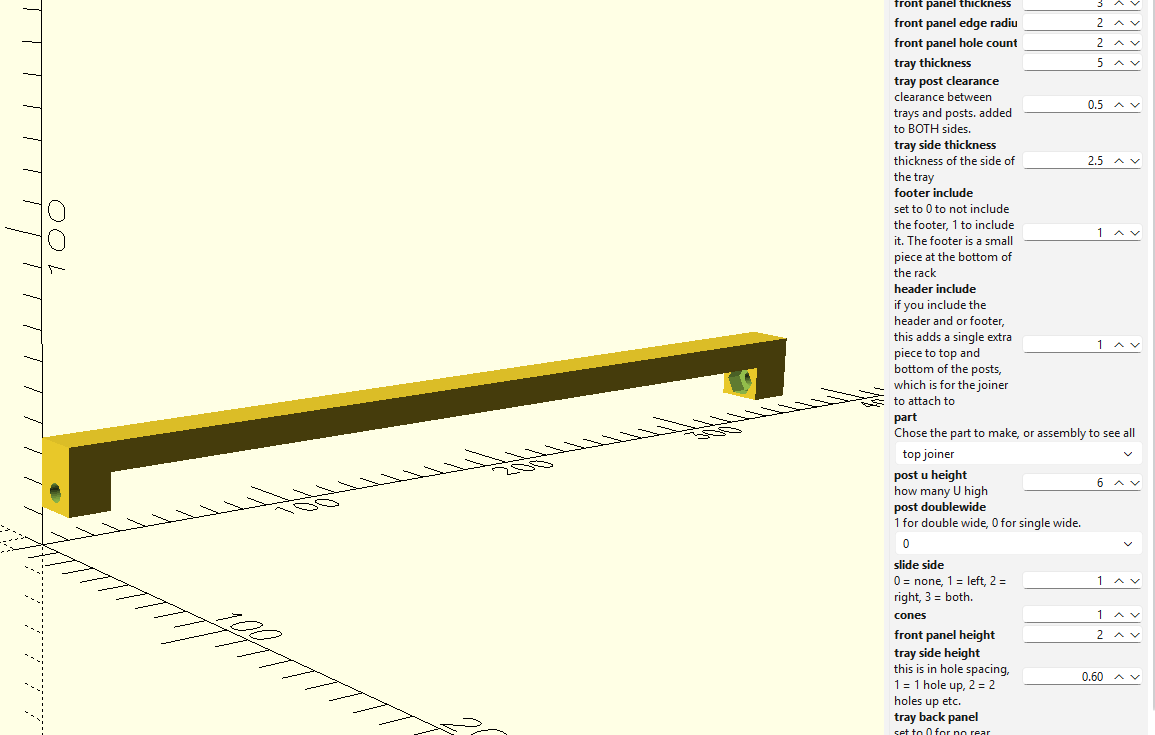
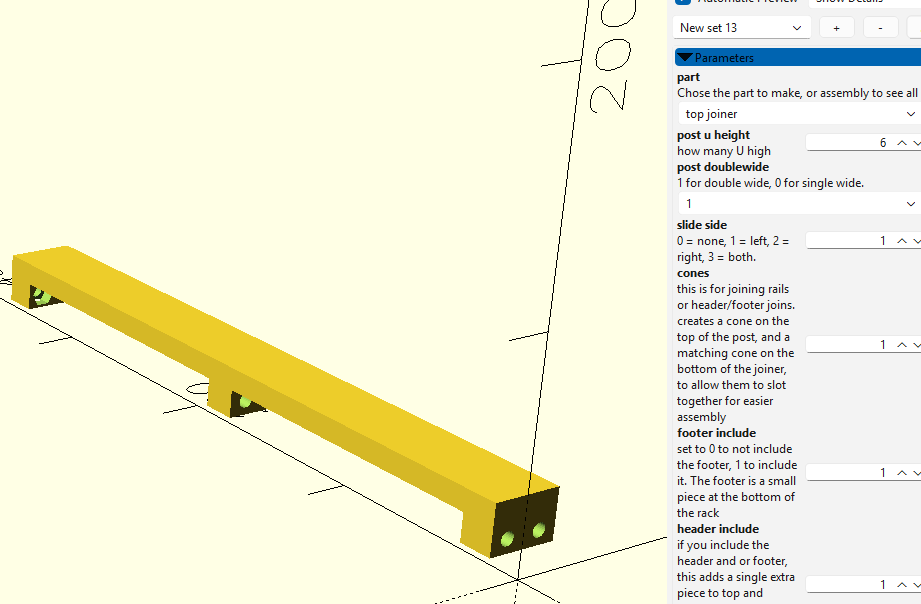
readme, refactors, renames, photoes, mini-itx board

diff --git a/readme.md b/readme.md
@@ -1,18 +1,50 @@
-Most of this readme was wrote by copilot, because I am a forklift operator, not a novelist. But I did write most of the code (except variable tray, which copilot fixed for me then refactored) and the spec.
+# Variable width Rack design.
 
-If you like the design, you're welcome to buy me a coffee:
+No longer are you stuck with 10" rack or a 19" rack you can't print parts for! What's more, you can actually have supported trays :)
+
+
+So, what is this actually?
+Simply put, I wanted a bigger rack that I could print on my Creality K2plus (350x350x350 build volume) and I wanted it to be 100% in OpenSCAD. Because that's the only software I can use. Fusion 360 is good, but eats cpu, doesn't work on Linux, and worst of all, they changed the licence and features available for hobbyists.
+What about FreeCAD? Yeah, FreeCAD is getting good now, but I just didn't want to learn it, because that would require starting out with the spec nailed down before even creating a design. It wasn't.
+
+Anyway, if you like the design, you're welcome to buy me a coffee:
 
 <a href="https://buymeacoffee.com/amead77"><img src="bmc-button.png" alt="Buy Me a Coffee" width="50%" /></a>
 
-# 330mm / 13-Inch Rack System (OpenSCAD)
 
-A parametric, 3D-printable rack system designed for larger-format printers such as the Creality K2 Plus, Prusa XL, etc. The rack is 330mm wide — measured from the left edge of the left post to the right edge of the right post (single-post configuration).
+A quick overview
+
+Below is a screenshot of OpenSCAD with a assembly view. This is just to show an example of some of what is possible. Everything is customisable.
+
+I've numbered some arrows so you can see:
+
+1. is showing top header, this is an extra hole added to the post for joining to 2. These  are not required if you don't want stability.
+2. is the top join, this joins the posts together at the top. Note: you can have 4 OR MORE posts. I have 6 in this example and how I use it. They can optionally (recommended) have the support cones. This is so the posts can lock in place if they also have cones.
+3. A half U panel. Technically not half-U, but that's what I called it. This is used to span across the posts and secure the top and bottom joins.
+4. The bottom join. Just like the top.
+5. Here is where you put post joins. These are a little square section that joins the inner posts to the top/bottom joins. Otherwise they'd be floating.
+6. A side panel. In my case I made a honeycome panel and added a raspberry pi logo.
 
 ![Assembly overview](overview.png)
 
+
+Rear view
+
 ![Rear view of assembly](overview-rearish.png)
 
+8 legged freak
+
 ![Assembly with 8 legs](overview-8_legs.png)
+
+How about a part complete rack, as in.. mine. I do have a tray for the Dell, but haven't printed it yet, so the Dell is just thrown in there. It is not a good computer, it is old but it was free.
+
+![dell](20260524_191549.jpg)
+
+Now the side panel. You don't have to have honeycomb, you can have a few different designs, plus size of shapes, image/logo is also optional. I have a RPi logo because I have a bunch of them. They'll end up in the rack in due course.
+
+![side panel](20260524_191538.jpg)
+
+
 
 ---
 
@@ -32,28 +64,35 @@ Posts are the vertical rails of the rack. They are generated in configurable U h
 
 ![Post](post.png)
 
+
 ### Trays
 
 Trays are available in fixed sizes (1U, 2U) or a fully variable size. The variable tray accepts a `tray_back_panel` flag to add a rear panel, turning it into a drawer. Trays slide into the post's rear slot for easy removal. Trays also don't need to be full length, defining 0.25 will make a quarter depth tray (y axis)
 
-![Variable tray](vari-tray.png)
+Look at "blank variable tray.scad" to find the tray code, but "intel dg45fg.scad" shows it being used.
+More info on how to use later.
 
-
-
-![Part Tray](tray-part_depth_y.png)
+![Variable tray](blank-tray.png)
 
 
 ### Panels (Blanking Panels)
 
-Flat front panels for blanking unused rack slots. Available in ½U, 1U, 2U, and variable sizes.
+"rack panels.scad"
 
-![Half-U panel](halfpanel.png)
+Flat front panels for blanking unused rack slots. Available in ½U, 1U, 2U.
+Note that "blank variable tray" can now do all of this apart from the half-U. It is also the recommended method as you can customise it, reinforce, etc.
+
+The half-U for joining posts together when using headers.
+
+![Half-U panel](half-u-panel.png)
+
 
 ![2U panel](2u-panel.png)
 
 ### Footer / Header
 
-Optional pieces added to the top and bottom of posts. They provide an attachment point for the joiners.
+Optional pieces added to the top and bottom of POSTS. They provide an attachment point for the joiners.
+If you want the front to rear support braces, I recommend adding these on.
 
 ### Joiners (Base / Top)
 
@@ -62,22 +101,50 @@ You can have more than just 4 posts. The joiners can have 2+ supports, by increa
 
 ![Top joiner](top-joiner.png)
 
+![Base joiner](base-joiner.png)
+
 ---
 
 ## Custom Trays
 
-The file `rack custom tray 01.scad` provides an example of a custom tray — including IO cutouts (e.g. Raspberry Pi 5 USB/Ethernet ports), standoffs with heat-set inserts, and embossed logos. Use this as a starting point for your own designs.
+The file "intel dg45fg.scad" has a tray I've made for my mini-itx board. Yes it's an older board, this is because I want it for WinXP.
+Anyway, it has:
+- mount for a FlexATX PSU
+- screw holes for mini-itx, for the back panel to be on the rear. (screw holes are sized for my heat-inserts)
+- a LED hole in the front for hdd activity
+- a Power button (large round) cutout
+- Name of board/cpu inside on the front of the panel. (I use a engrave of 0.01mm, this makes it easy to 'paint' in my slicer, while still being level with the panel)
+- reinforced front panel at the top
+- reinforced rear, by creating a back panel, then chamfering it at 30deg. this is because I print panel face down and it means far less supports
+- If my printer wasn't being a D. I'd have it printed by now. 
+
+![mini-itx](mini-itx-tray.png)
+
+This picture is the mini-itx tray, but I chopped it to a tiny piece in the slicer, I highly recommend making test pieces before commiting to 12hour+ prints.
+
+![test print](20250524_191530.jpg)
+
+
+
+The file "ugreen um106x.scad" is another one I use, and have a photo of in use.
+This was created to:
+- have my 5 port switch
+- 4x keystones
+
+![ugreen](um106x.png)
+
+
 
 ---
 
 ## Usage
 
-1. Open `rack parts.scad` in OpenSCAD (use the nightlys, the offical releases are mega old).
+1. Open `rack parts.scad` in OpenSCAD. This is not perfect. This will create the basic parts, but not highly customised trays.
 2. Open the **Customizer** panel (Window → Customizer).
 3. Select the part you want from the `part` dropdown:
    - `assembly` — preview all parts together
-   - `post` — a single post
-   - `base joiner` / `top joiner` — horizontal joiners
+   - `post` — a single post, I recommend double-wide for future side panels etc, and slide_sides, if you want the trays to be supported.
+   - `base joiner` / `top joiner` — horizontal joiners, also recommended. Make sure your posts have headers/footers and cones.
    - `1U tray` / `2U tray` / `variable tray` — trays
    - `halfUpanel` / `1U panel` / `2U panel` / `variable panel` — blanking panels
 4. Adjust the parameters to suit your needs.
@@ -96,9 +163,10 @@ The file `rack custom tray 01.scad` provides an example of a custom tray — inc
 | `tray_back_panel` | `0` = open tray, `1` = drawer with rear panel |
 | `footer_include` / `header_include` | Include footer/header attachment pieces |
 
+
 ### Hardware
 
-The design is based on **M6 screws** with **M6 hex nuts** (10mm across-flats, 5mm thick). Adjust `hole_clearance`, `hole_d`, `nut_diameter`, and `nut_thickness` in `rack defines.scad` if you want to use different fasteners.
+The design is based on **M6 screws** with **M6 hex nuts** (10mm across-flats, 5mm thick). Adjust `hole_clearance`, `hole_d`, `nut_diameter`, and `nut_thickness` if you want to use different fasteners.
 
 ---
 
@@ -107,18 +175,21 @@ The design is based on **M6 screws** with **M6 hex nuts** (10mm across-flats, 5m
 | File | Purpose |
 |---|---|
 | `rack parts.scad` | Main entry point — select and configure parts here |
-| `rack defines.scad` | All default dimensions and constants |
+| `rack defines.scad` | All default dimensions and constants - DEPRECIATED, kept for reference|
 | `rack posts.scad` | Post geometry |
-| `rack tray.scad` | Tray and panel geometry |
-| `rack custom tray 01.scad` | Example custom tray (Raspberry Pi 5) |
-| `rack *.3mf` | Pre-sliced print files for reference |
-
+| `rack panels.scad` | Panel geometry, for 0.5U, 1U and 2U |
+| `intel dg45fg.scad` | My mini itx tray, useful for reference
+| `blank variable tray.scad` | The main tray and panel making scad. Call blank_variable_tray() for everything, then customise.
 ---
+
+The reason rack defines.scad is depreciated is because everything got refactored so that the default values of calling the functions are what was in the defines. Everything can be overriden in the function calls.
+I really recommend having a look at the parts and how they are called, then look at the function/module they call, because I have commented all the options.
+
 
 ## Requirements
 
-- [OpenSCAD](https://openscad.org/) the releases are ancient, use the nightlies instead.
-- A printer with at least 330mm on one axis (e.g. Creality K2 Plus, Prusa XL)
+- [OpenSCAD](https://openscad.org/) the releases are ancient, use the nightlies instead. On raspberry pi you have to compile from source.
+- A printer that can handle the size you want (e.g. Creality K2 Plus can do 350mm, Prusa XL can do 340mm)
 
 ---
 
@@ -126,7 +197,7 @@ The design is based on **M6 screws** with **M6 hex nuts** (10mm across-flats, 5m
 
 This project is licensed under the **Creative Commons - Attribution (CC BY)** for all the parts and **Creative Commons - Attribution - Non-Commercial (CC BY-NC)** for the specifications.
 
-In simpler terms, you can remix and do whatever you want with making parts or modifying the parts, including selling. But the design spec, that is 330mm dimension and guide slots, is the same terms but non-commercial use. This is specifically aimed at companies making 13"/330mm racks using my design, not someone who makes some mods or addons and sells them.
+In simpler terms, you can remix and do whatever you want with making parts or modifying the parts, including selling. But the design spec, that is dimensions, guide slots on the posts, overall look, is the same terms but non-commercial use. This is specifically aimed at companies making racks using my design, not someone who makes some mods or addons and sells them. Even creating the whole thing as a print and selling is fine. Just not for manufacturers.
 
 
 &copy; 2026 Adam Mead